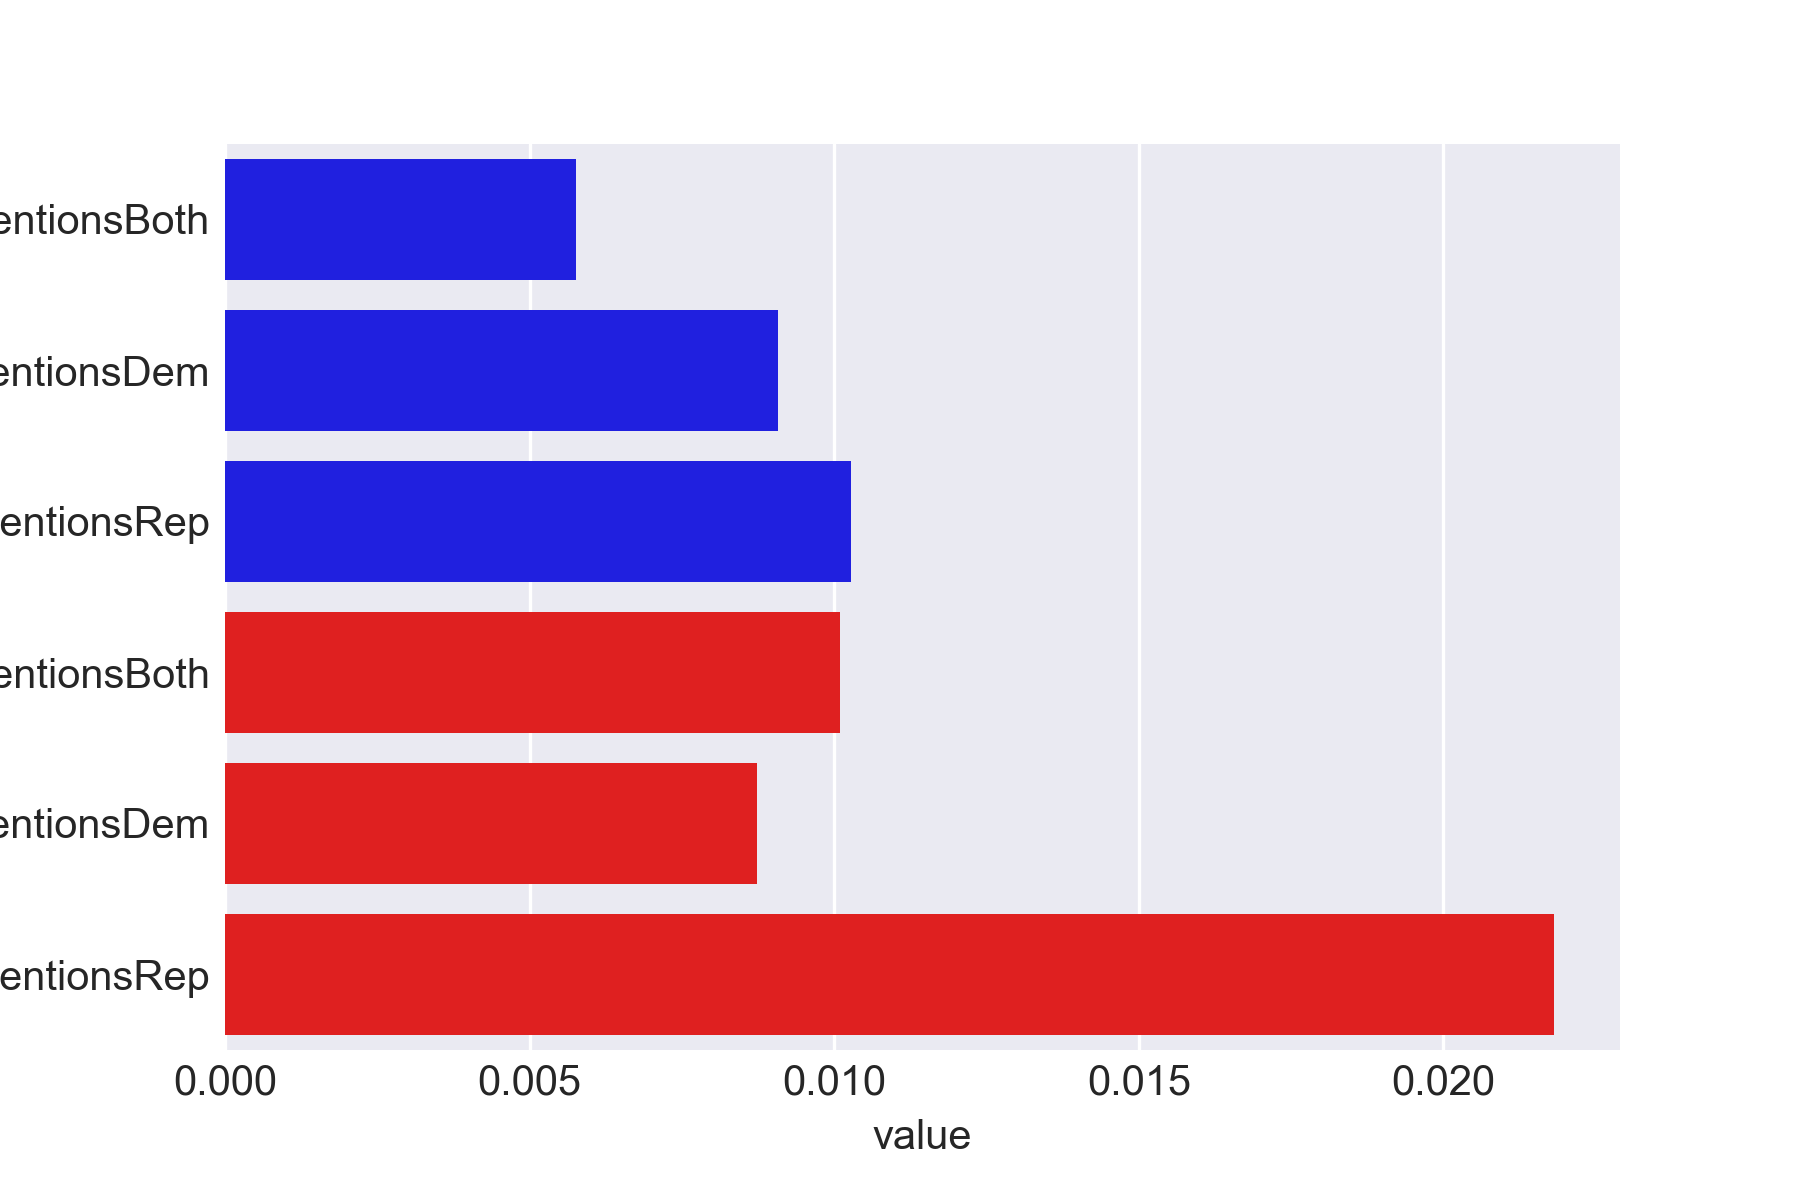
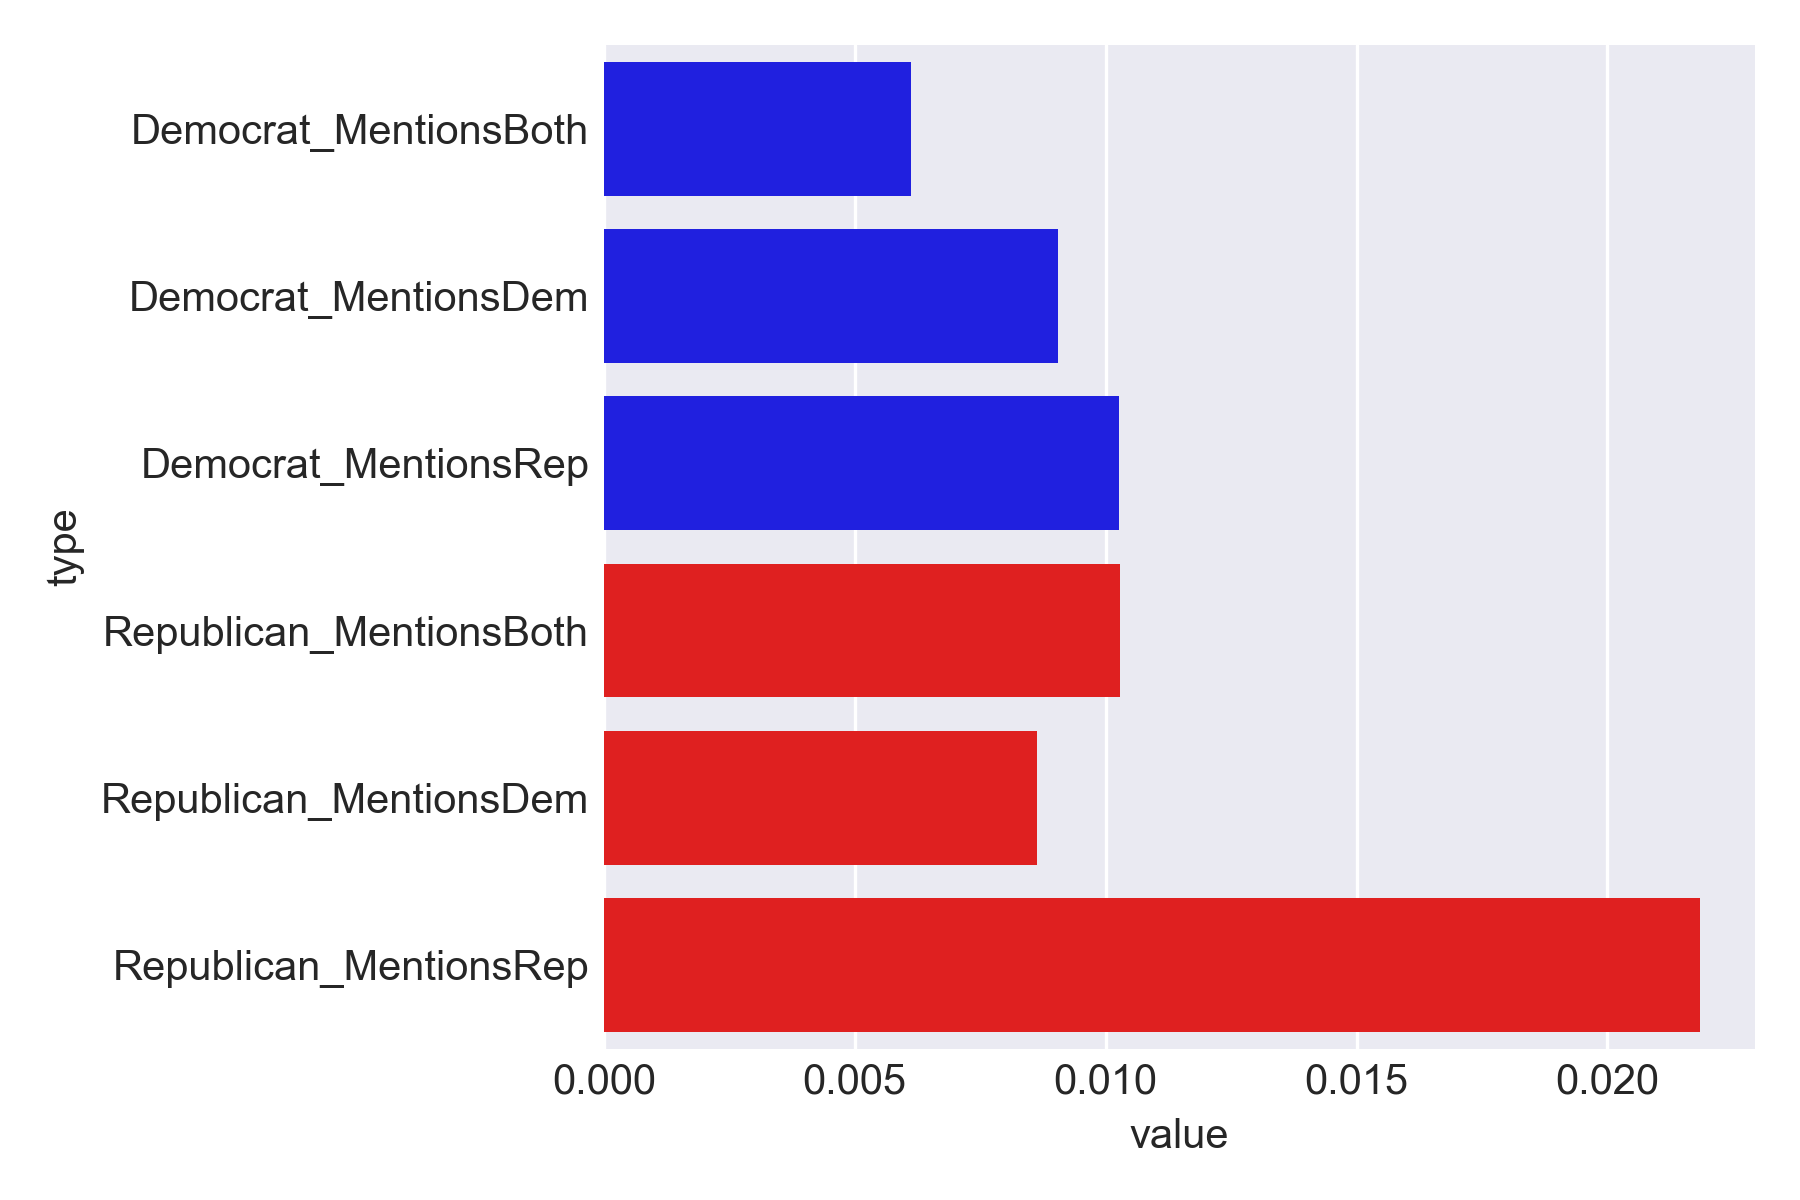
Adding new plots and clean modifications

diff --git a/stats_savedtweets.py b/stats_savedtweets.py
@@ -6,20 +6,11 @@ Created on Sun Oct 11 18:03:33 2020
 """
 #%% IMPORTATIONS
 
-import tweepy
 import pandas as pd
 import numpy as np
 import matplotlib as plt
-import os.path
-import time
-import math
 import re
-import statsmodels.api as sm
 import seaborn as sns
-import datetime 
-from matplotlib.dates import DayLocator, HourLocator, DateFormatter, drange 
-from matplotlib import cm
-import random
 import matplotlib.lines as mlines
 from textblob import TextBlob
 import nltk
@@ -71,9 +62,9 @@ def makeHistogram(tweets,what,limit_low=0,limit_high=1000,nbins=10,save=False):
         if save!=False:
             plt.pyplot.savefig(path+"/plots/"+str(save)+'.png', dpi=300)
             
-makeHistogram(tweets,"followers",10,10000,nbins=100,save="2016_Followers")
-makeHistogram(tweets,"author_statuscount",10,10000,nbins=100,save="2016_StatusCount")
-makeHistogram(tweets,"retweets",10,10000,nbins=100,save="2016_Retweets")
+makeHistogram(tweets,"followers",10,10000,nbins=100,save="2020_Followers")
+makeHistogram(tweets,"author_statuscount",10,10000,nbins=100,save="2020_StatusCount")
+makeHistogram(tweets,"retweets",10,10000,nbins=100,save="2020_Retweets")
 
 #%% Réponses
 
@@ -103,8 +94,8 @@ def makeMostAnswered(tweets,n_low,n_high,save=False):
         plt.pyplot.tight_layout()
         plt.pyplot.savefig(path+"/plots/"+str(save)+'.png', dpi=300)
         
-makeMostAnswered(tweets,0,11,save="2016_MostAnswered")
-makeMostAnswered(tweets,2,21,save="2016_MostAnswered_Zoom")
+makeMostAnswered(tweets,0,11,save="2020_MostAnswered")
+makeMostAnswered(tweets,2,21,save="2020_MostAnswered_Zoom")
 
 #%% Retweetés
 
@@ -131,7 +122,7 @@ def makeMostRetweeted(tweets,n_low,n_high,save=False):
         plt.pyplot.tight_layout()
         plt.pyplot.savefig(path+"/plots/"+str(save)+'.png', dpi=300)
         
-makeMostRetweeted(tweets,0,20,save="2016_MostRT")
+makeMostRetweeted(tweets,0,20,save="2020_MostRT")
 
 
 #%% Political side
@@ -150,7 +141,7 @@ def MakePartyBarplot(tweets,inc_no_party=False,save=False):
     if save!=False:
         plt.pyplot.savefig(path+"/plots/"+str(save)+'.png',dpi=300)
         
-MakePartyBarplot(tweets,inc_no_party=False,save="2016_PartyBarplot_NLPClassif")
+MakePartyBarplot(tweets,inc_no_party=True,save="2016_PartyBarplot_HastagsClassif")
 
 #%% Crossing political side and mentions of democrats/republicans
 
@@ -188,6 +179,7 @@ def MakeBarplotPartyCrossMention(tweets,inc_no_party=False,normalize=False,save=
         sns.barplot(data=cross_count[(cross_count["type"].isin(palette_party_cross_mention.keys()))&(cross_count["type"]!="Republican_MentionsNone")&(cross_count["type"]!="Democrat_MentionsNone")],x="value",y="type",palette=palette_party_cross_mention)
 
     if save!=False:
+        plt.pyplot.tight_layout()
         plt.pyplot.savefig(path+"/plots/"+str(save)+'.png',dpi=300)
         
 
@@ -293,18 +285,18 @@ def makeBarplotGeo(tweets,what,n_low,n_high,year=2016,by_party=False,include_non
         plt.pyplot.tight_layout()
         plt.pyplot.savefig(path+"/plots/"+str(save)+'.png', dpi=300)            
 
-year=2016
+year=2020
 makeBarplotGeo(tweets,"country",1,20,year=year)
-makeBarplotGeo(tweets,"state",0,20,year=year,save="2016_TweetsPerState")
-makeBarplotGeo(tweets,"state",0,10,year=year,by_party=True,save="2016_TweetsPerStateByParty")
-makeBarplotGeo(tweets,"state",0,10,year=year,by_party=True,relative="vote",save="2016_TweetsPerStatePerVoteByParty") #by state relative to for each party in the specific state
+makeBarplotGeo(tweets,"state",0,20,year=year,save="2020_TweetsPerState")
+makeBarplotGeo(tweets,"state",0,10,year=year,by_party=True,save="2020_TweetsPerStateByParty")
+makeBarplotGeo(tweets,"state",0,10,year=year,by_party=True,relative="vote",save="2020_TweetsPerStatePerVoteByParty") #by state relative to for each party in the specific state
 
-makeBarplotGeo(tweets,"lang",0,5,year=year,by_party=False,include_en=False,save="2016_TweetsLang")
+makeBarplotGeo(tweets,"lang",0,5,year=year,by_party=False,include_en=False,save="2020_TweetsLang")
 makeBarplotGeo(tweets,"lang",0,5,year=year,by_party=True,include_en=True)
 
-makeBarplotGeo(tweets,"state",0,20,year=year,relative="electoral_vote",save="2016_TweetsPerEV") #Relative to electoral votes to win by state
-makeBarplotGeo(tweets,"state",0,20,year=year,relative="pop",save="2016_TweetsPerPerson") #Relative to population by state
-makeBarplotGeo(tweets,"state",0,20,year=year,relative="vote",save="2016_TweetsPerVoter") #Relative to turnout by state
+makeBarplotGeo(tweets,"state",0,20,year=year,relative="electoral_vote",save="2020_TweetsPerEV") #Relative to electoral votes to win by state
+makeBarplotGeo(tweets,"state",0,20,year=year,relative="pop",save="2020_TweetsPerPerson") #Relative to population by state
+makeBarplotGeo(tweets,"state",0,20,year=year,relative="vote",save="2020_TweetsPerVoter") #Relative to turnout by state
 
 #%% Crossing tweet type and political side
 
@@ -404,7 +396,7 @@ def MakeBarplotTweetType(tweets,by_party=True,inc_no_party=False,no_rt=False,sav
         
 no_rt=True
 MakeBarplotTweetType(tweets,by_party=True,inc_no_party=True,no_rt=no_rt)
-MakeBarplotTweetType(tweets,by_party=True,inc_no_party=False,no_rt=no_rt,save="2016_TweetsType")
+MakeBarplotTweetType(tweets,by_party=True,inc_no_party=False,no_rt=no_rt,save="2020_TweetsType")
 
 #%% Intensity of tweets in time
 #adjust the y_lims depending on the sample chosen and the period of time
@@ -538,4 +530,4 @@ def DisplayWordsCount(tweets,prop=False,save=False):
         plt.pyplot.tight_layout()
         plt.pyplot.savefig(path+"/plots/"+str(save)+'.png', dpi=300)            
 
-DisplayWordsCount(tweets,prop=True,save="2016_WordsCountProp")
+DisplayWordsCount(tweets,prop=True,save="2020_WordsCountProp")

diff --git a/NLP_HastagsLabel/create_train_test_sets.py b/NLP_HastagsLabel/create_train_test_sets.py
@@ -6,23 +6,7 @@ Created on Mon Dec 21 12:52:57 2020
 """
 #%% Libraries
 
-import tweepy
-import pandas as pd
-import numpy as np
-import matplotlib as plt
-import os.path
-import time
-import math
 import re
-import statsmodels.api as sm
-import seaborn as sns
-import datetime 
-from matplotlib.dates import DayLocator, HourLocator, DateFormatter, drange 
-from matplotlib import cm
-import random
-import matplotlib.lines as mlines
-from textblob import TextBlob
-from sklearn.model_selection import train_test_split
 import random
 
 path='D:/US_Election_Tweets'
@@ -56,6 +40,7 @@ def cleanRealText(text):
 def cleanHastags(text):
     text=re.sub('#[^\s]*',"",text)   
     return(text)
+
 #%% Cleaning the text
 
 election_2016_tweets["real_clean_text"]=election_2016_tweets["real_text"].apply(cleanRealText)
@@ -97,8 +82,7 @@ tweets_test_2016.columns=["text","clean_text","label","mentions_dem",'mentions_r
 path_export=path+"/NLP_HastagsLabel"
 tweets_train_2016.to_csv(path_export+'/tweets_train_2016.csv',index=False)
 tweets_test_2016.to_csv(path_export+'/tweets_test_2016.csv',index=False)
-tweets_train_2016.to_json(path_export+'/tweets_train_2016.json')
-tweets_test_2016.to_json(path_export+'/tweets_test_2016.json')
+
 
 #%% Creating 2020 test and train sets
 ####################### 2020 ###########################
